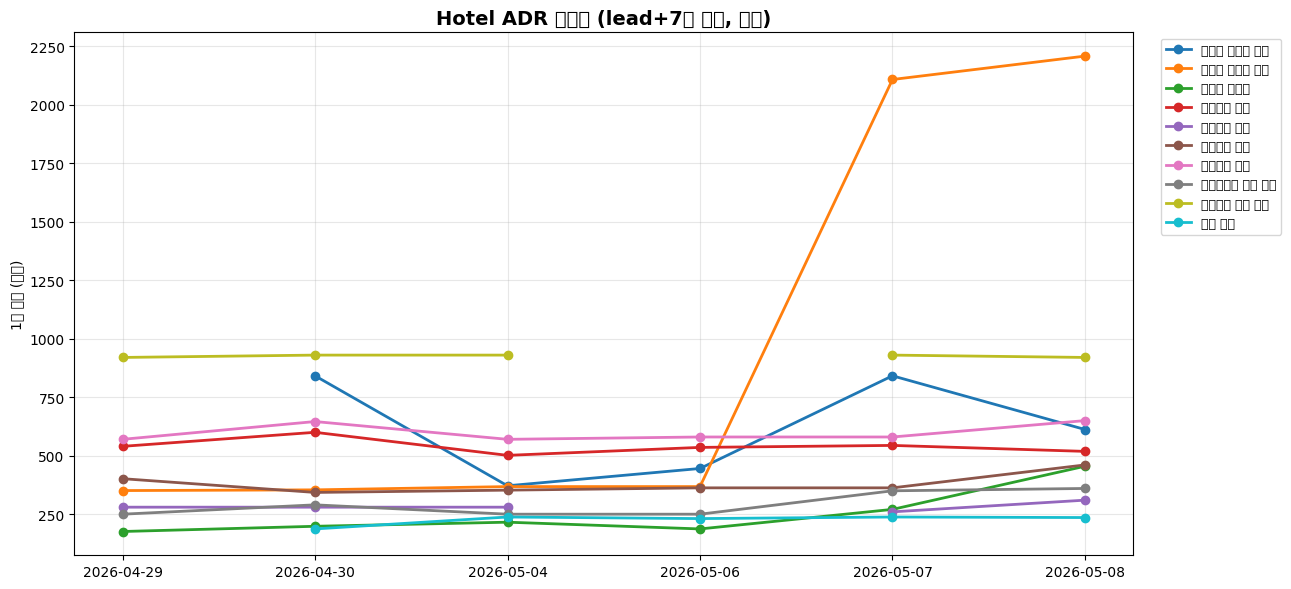
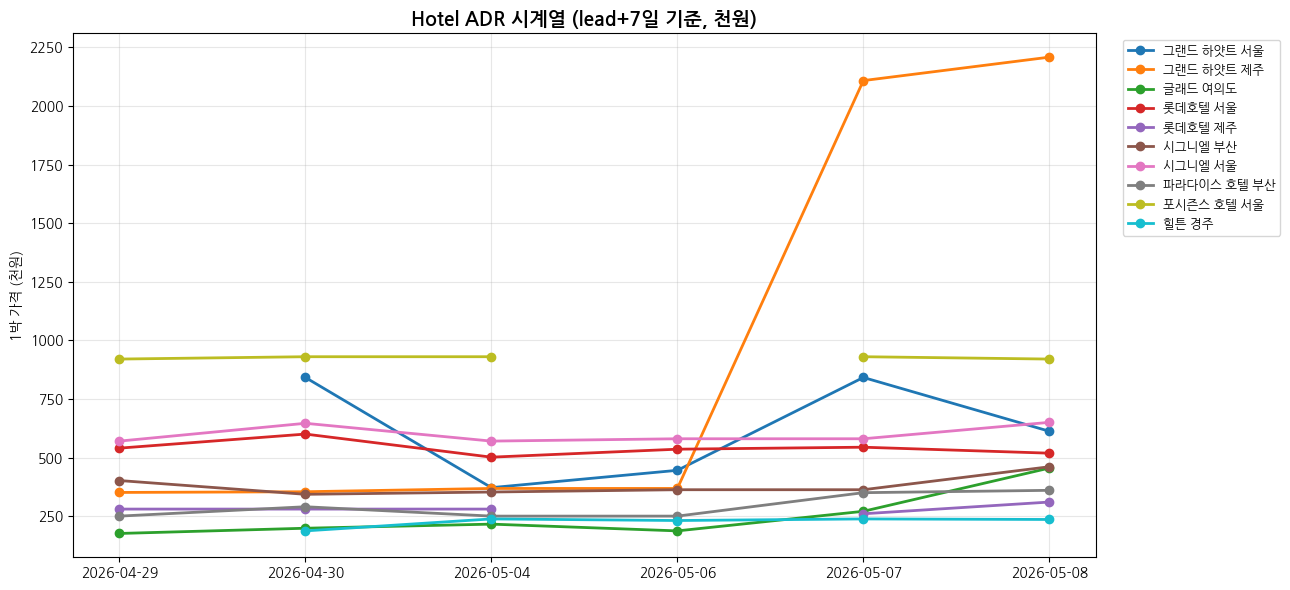
Auto-update: Market data and dashboard [skip ci]

diff --git a/market.html b/market.html
@@ -444,7 +444,7 @@
 <body>
     <header style="position:relative;">
         <h1>📊 Market Data Dashboard</h1>
-        <div class="last-updated">Updated: 2026-05-08 16:45:35 KST</div>
+        <div class="last-updated">Updated: 2026-05-08 16:52:04 KST</div>
         <a href="index.html" style="position:absolute;top:20px;right:24px;padding:6px 16px;background:#e0e0e0;color:#333;text-decoration:none;border-radius:8px;font-size:15px;font-weight:600;">Home</a>
     </header>
 
@@ -471,7 +471,7 @@
 <tr><td style="padding:6px 12px;text-align:center;font-variant-numeric:tabular-nums;border-right:1px solid #e5e7eb;border-bottom:1px solid #e5e7eb;">2026</td><td style="padding:6px 12px;text-align:center;font-variant-numeric:tabular-nums;border-right:1.5px solid #374151;border-bottom:1px solid #e5e7eb;">2월</td><td style="padding:6px 12px;text-align:center;background:#ff7a7a;color:#000;font-variant-numeric:tabular-nums;border-right:1px solid #e5e7eb;border-bottom:1px solid #e5e7eb;">+19.5%</td><td style="padding:6px 12px;text-align:center;background:#ffe8e8;color:#000;font-variant-numeric:tabular-nums;border-right:1px solid #e5e7eb;border-bottom:1px solid #e5e7eb;">+3.8%</td><td style="padding:6px 12px;text-align:center;background:#ff7a7a;color:#000;font-variant-numeric:tabular-nums;border-right:1px solid #e5e7eb;border-bottom:1px solid #e5e7eb;">+10.4%</td><td style="padding:6px 12px;text-align:center;background:#ff7a7a;color:#000;font-variant-numeric:tabular-nums;border-right:1px solid #e5e7eb;border-bottom:1px solid #e5e7eb;">+10.5%</td><td style="padding:6px 12px;text-align:center;background:#e8edff;color:#000;font-variant-numeric:tabular-nums;border-right:1px solid #e5e7eb;border-bottom:1px solid #e5e7eb;">-0.9%</td><td style="padding:6px 12px;text-align:center;background:#e8edff;color:#000;font-variant-numeric:tabular-nums;border-right:1px solid #e5e7eb;border-bottom:1px solid #e5e7eb;">-3.4%</td><td style="padding:6px 12px;text-align:center;background:#ffe8e8;color:#000;font-variant-numeric:tabular-nums;border-right:1.5px solid #374151;border-bottom:1px solid #e5e7eb;">+0.7%</td><td style="padding:6px 12px;text-align:center;background:#7a90ff;color:#000;font-variant-numeric:tabular-nums;border-right:1px solid #e5e7eb;border-bottom:1px solid #e5e7eb;">-14.8%</td><td style="padding:6px 12px;text-align:center;background:#7a90ff;color:#000;font-variant-numeric:tabular-nums;border-right:1.5px solid #374151;border-bottom:1px solid #e5e7eb;">-19.6%</td><td style="padding:6px 12px;text-align:center;background:#ff7a7a;color:#000;font-variant-numeric:tabular-nums;border-right:1px solid #e5e7eb;border-bottom:1px solid #e5e7eb;">+11.0%</td><td style="padding:6px 12px;text-align:center;background:#ff7a7a;color:#000;font-variant-numeric:tabular-nums;border-right:1px solid #e5e7eb;border-bottom:1px solid #e5e7eb;">+18.4%</td></tr>
 <tr><td style="padding:6px 12px;text-align:center;font-variant-numeric:tabular-nums;border-right:1px solid #e5e7eb;border-bottom:1px solid #e5e7eb;">2026</td><td style="padding:6px 12px;text-align:center;font-variant-numeric:tabular-nums;border-right:1.5px solid #374151;border-bottom:1px solid #e5e7eb;">3월</td><td style="padding:6px 12px;text-align:center;background:#7a90ff;color:#000;font-variant-numeric:tabular-nums;border-right:1px solid #e5e7eb;border-bottom:1px solid #e5e7eb;">-19.1%</td><td style="padding:6px 12px;text-align:center;background:#7a90ff;color:#000;font-variant-numeric:tabular-nums;border-right:1px solid #e5e7eb;border-bottom:1px solid #e5e7eb;">-11.8%</td><td style="padding:6px 12px;text-align:center;background:#7a90ff;color:#000;font-variant-numeric:tabular-nums;border-right:1px solid #e5e7eb;border-bottom:1px solid #e5e7eb;">-13.2%</td><td style="padding:6px 12px;text-align:center;background:#7a90ff;color:#000;font-variant-numeric:tabular-nums;border-right:1px solid #e5e7eb;border-bottom:1px solid #e5e7eb;">-10.4%</td><td style="padding:6px 12px;text-align:center;background:#b8c5ff;color:#000;font-variant-numeric:tabular-nums;border-right:1px solid #e5e7eb;border-bottom:1px solid #e5e7eb;">-5.1%</td><td style="padding:6px 12px;text-align:center;background:#e8edff;color:#000;font-variant-numeric:tabular-nums;border-right:1px solid #e5e7eb;border-bottom:1px solid #e5e7eb;">-4.8%</td><td style="padding:6px 12px;text-align:center;background:#b8c5ff;color:#000;font-variant-numeric:tabular-nums;border-right:1.5px solid #374151;border-bottom:1px solid #e5e7eb;">-5.2%</td><td style="padding:6px 12px;text-align:center;background:#ffe8e8;color:#000;font-variant-numeric:tabular-nums;border-right:1px solid #e5e7eb;border-bottom:1px solid #e5e7eb;">+1.8%</td><td style="padding:6px 12px;text-align:center;background:#ffb8b8;color:#000;font-variant-numeric:tabular-nums;border-right:1.5px solid #374151;border-bottom:1px solid #e5e7eb;">+7.1%</td><td style="padding:6px 12px;text-align:center;background:#7a90ff;color:#000;font-variant-numeric:tabular-nums;border-right:1px solid #e5e7eb;border-bottom:1px solid #e5e7eb;">-11.1%</td><td style="padding:6px 12px;text-align:center;background:#7a90ff;color:#000;font-variant-numeric:tabular-nums;border-right:1px solid #e5e7eb;border-bottom:1px solid #e5e7eb;">-19.4%</td></tr>
 <tr><td style="padding:6px 12px;text-align:center;font-variant-numeric:tabular-nums;border-right:1px solid #e5e7eb;border-bottom:1px solid #e5e7eb;">2026</td><td style="padding:6px 12px;text-align:center;font-variant-numeric:tabular-nums;border-right:1.5px solid #374151;border-bottom:1px solid #e5e7eb;">4월</td><td style="padding:6px 12px;text-align:center;background:#ff7a7a;color:#000;font-variant-numeric:tabular-nums;border-right:1px solid #e5e7eb;border-bottom:1px solid #e5e7eb;">+30.6%</td><td style="padding:6px 12px;text-align:center;background:#ff7a7a;color:#000;font-variant-numeric:tabular-nums;border-right:1px solid #e5e7eb;border-bottom:1px solid #e5e7eb;">+13.3%</td><td style="padding:6px 12px;text-align:center;background:#ff7a7a;color:#000;font-variant-numeric:tabular-nums;border-right:1px solid #e5e7eb;border-bottom:1px solid #e5e7eb;">+16.1%</td><td style="padding:6px 12px;text-align:center;background:#ff7a7a;color:#000;font-variant-numeric:tabular-nums;border-right:1px solid #e5e7eb;border-bottom:1px solid #e5e7eb;">+22.7%</td><td style="padding:6px 12px;text-align:center;background:#ff7a7a;color:#000;font-variant-numeric:tabular-nums;border-right:1px solid #e5e7eb;border-bottom:1px solid #e5e7eb;">+10.4%</td><td style="padding:6px 12px;text-align:center;background:#ff7a7a;color:#000;font-variant-numeric:tabular-nums;border-right:1px solid #e5e7eb;border-bottom:1px solid #e5e7eb;">+15.3%</td><td style="padding:6px 12px;text-align:center;background:#ff7a7a;color:#000;font-variant-numeric:tabular-nums;border-right:1.5px solid #374151;border-bottom:1px solid #e5e7eb;">+12.2%</td><td style="padding:6px 12px;text-align:center;background:#ff7a7a;color:#000;font-variant-numeric:tabular-nums;border-right:1px solid #e5e7eb;border-bottom:1px solid #e5e7eb;">+11.8%</td><td style="padding:6px 12px;text-align:center;background:#ffb8b8;color:#000;font-variant-numeric:tabular-nums;border-right:1.5px solid #374151;border-bottom:1px solid #e5e7eb;">+7.2%</td><td style="padding:6px 12px;text-align:center;background:#e8edff;color:#000;font-variant-numeric:tabular-nums;border-right:1px solid #e5e7eb;border-bottom:1px solid #e5e7eb;">-0.7%</td><td style="padding:6px 12px;text-align:center;background:#e8edff;color:#000;font-variant-numeric:tabular-nums;border-right:1px solid #e5e7eb;border-bottom:1px solid #e5e7eb;">-1.5%</td></tr>
-<tr><td style="padding:6px 12px;text-align:center;font-variant-numeric:tabular-nums;border-right:1px solid #e5e7eb;border-bottom:1px solid #e5e7eb;">2026</td><td style="padding:6px 12px;text-align:center;font-variant-numeric:tabular-nums;border-right:1.5px solid #374151;border-bottom:1px solid #e5e7eb;">5월</td><td style="padding:6px 12px;text-align:center;background:#ff7a7a;color:#000;font-variant-numeric:tabular-nums;border-right:1px solid #e5e7eb;border-bottom:1px solid #e5e7eb;">+13.6%</td><td style="padding:6px 12px;text-align:center;background:#ffe8e8;color:#000;font-variant-numeric:tabular-nums;border-right:1px solid #e5e7eb;border-bottom:1px solid #e5e7eb;">+1.3%</td><td style="padding:6px 12px;text-align:center;background:#ffb8b8;color:#000;font-variant-numeric:tabular-nums;border-right:1px solid #e5e7eb;border-bottom:1px solid #e5e7eb;">+5.8%</td><td style="padding:6px 12px;text-align:center;background:#ffb8b8;color:#000;font-variant-numeric:tabular-nums;border-right:1px solid #e5e7eb;border-bottom:1px solid #e5e7eb;">+6.9%</td><td style="padding:6px 12px;text-align:center;background:#ffe8e8;color:#000;font-variant-numeric:tabular-nums;border-right:1px solid #e5e7eb;border-bottom:1px solid #e5e7eb;">+1.8%</td><td style="padding:6px 12px;text-align:center;background:#ffe8e8;color:#000;font-variant-numeric:tabular-nums;border-right:1px solid #e5e7eb;border-bottom:1px solid #e5e7eb;">+3.7%</td><td style="padding:6px 12px;text-align:center;background:#ffe8e8;color:#000;font-variant-numeric:tabular-nums;border-right:1.5px solid #374151;border-bottom:1px solid #e5e7eb;">+1.4%</td><td style="padding:6px 12px;text-align:center;background:#ffe8e8;color:#000;font-variant-numeric:tabular-nums;border-right:1px solid #e5e7eb;border-bottom:1px solid #e5e7eb;">+4.2%</td><td style="padding:6px 12px;text-align:center;background:#ffe8e8;color:#000;font-variant-numeric:tabular-nums;border-right:1.5px solid #374151;border-bottom:1px solid #e5e7eb;">+0.9%</td><td style="padding:6px 12px;text-align:center;background:#ffe8e8;color:#000;font-variant-numeric:tabular-nums;border-right:1px solid #e5e7eb;border-bottom:1px solid #e5e7eb;">+2.2%</td><td style="padding:6px 12px;text-align:center;background:#ffb8b8;color:#000;font-variant-numeric:tabular-nums;border-right:1px solid #e5e7eb;border-bottom:1px solid #e5e7eb;">+9.0%</td></tr>
+<tr><td style="padding:6px 12px;text-align:center;font-variant-numeric:tabular-nums;border-right:1px solid #e5e7eb;border-bottom:1px solid #e5e7eb;">2026</td><td style="padding:6px 12px;text-align:center;font-variant-numeric:tabular-nums;border-right:1.5px solid #374151;border-bottom:1px solid #e5e7eb;">5월</td><td style="padding:6px 12px;text-align:center;background:#ff7a7a;color:#000;font-variant-numeric:tabular-nums;border-right:1px solid #e5e7eb;border-bottom:1px solid #e5e7eb;">+13.6%</td><td style="padding:6px 12px;text-align:center;background:#ffe8e8;color:#000;font-variant-numeric:tabular-nums;border-right:1px solid #e5e7eb;border-bottom:1px solid #e5e7eb;">+1.3%</td><td style="padding:6px 12px;text-align:center;background:#ffb8b8;color:#000;font-variant-numeric:tabular-nums;border-right:1px solid #e5e7eb;border-bottom:1px solid #e5e7eb;">+5.8%</td><td style="padding:6px 12px;text-align:center;background:#ffb8b8;color:#000;font-variant-numeric:tabular-nums;border-right:1px solid #e5e7eb;border-bottom:1px solid #e5e7eb;">+6.9%</td><td style="padding:6px 12px;text-align:center;background:#ffe8e8;color:#000;font-variant-numeric:tabular-nums;border-right:1px solid #e5e7eb;border-bottom:1px solid #e5e7eb;">+1.8%</td><td style="padding:6px 12px;text-align:center;background:#ffe8e8;color:#000;font-variant-numeric:tabular-nums;border-right:1px solid #e5e7eb;border-bottom:1px solid #e5e7eb;">+3.7%</td><td style="padding:6px 12px;text-align:center;background:#ffe8e8;color:#000;font-variant-numeric:tabular-nums;border-right:1.5px solid #374151;border-bottom:1px solid #e5e7eb;">+1.4%</td><td style="padding:6px 12px;text-align:center;background:#ffe8e8;color:#000;font-variant-numeric:tabular-nums;border-right:1px solid #e5e7eb;border-bottom:1px solid #e5e7eb;">+4.3%</td><td style="padding:6px 12px;text-align:center;background:#ffe8e8;color:#000;font-variant-numeric:tabular-nums;border-right:1.5px solid #374151;border-bottom:1px solid #e5e7eb;">+1.0%</td><td style="padding:6px 12px;text-align:center;background:#ffe8e8;color:#000;font-variant-numeric:tabular-nums;border-right:1px solid #e5e7eb;border-bottom:1px solid #e5e7eb;">+2.2%</td><td style="padding:6px 12px;text-align:center;background:#ffb8b8;color:#000;font-variant-numeric:tabular-nums;border-right:1px solid #e5e7eb;border-bottom:1px solid #e5e7eb;">+9.2%</td></tr>
                     </tbody>
                 </table>
             </div>

diff --git a/universe.html b/universe.html
@@ -54,7 +54,7 @@
 <header>
     <div style="max-width:1800px;margin:0 auto;padding:0 24px;position:relative;">
         <h1>Universe</h1>
-        <div style="margin-top:10px;color:#6c757d;font-style:italic;font-size:15px;">Updated: 2026-05-08 16:45:35 KST</div>
+        <div style="margin-top:10px;color:#6c757d;font-style:italic;font-size:15px;">Updated: 2026-05-08 16:52:04 KST</div>
         <div style="position:absolute;top:20px;right:24px;display:flex;gap:8px;">
             <a href="https://docs.google.com/spreadsheets/d/1KR9RJN53G-yJtnowQbg5bcAiIBfrkIeNqN_PO2UOCTM/edit" target="_blank" style="background:#6B21A8;color:#fff;font-size:15px;font-weight:600;text-decoration:none;padding:6px 16px;border-radius:8px;">Sheet</a>
             <a href="index.html" style="padding:6px 16px;background:#e0e0e0;color:#333;text-decoration:none;border-radius:8px;font-size:15px;font-weight:600;">Home</a>

diff --git a/wrap.html b/wrap.html
@@ -137,7 +137,7 @@
     <div id="mainContent" class="pw-hidden">
     <header style="position:relative;">
         <h1>📈 WRAP</h1>
-        <div class="last-updated">Updated: 2026-05-08 16:45:35 KST</div>
+        <div class="last-updated">Updated: 2026-05-08 16:52:04 KST</div>
         <a href="index.html" style="position:absolute;top:20px;right:24px;padding:6px 16px;background:#e0e0e0;color:#333;text-decoration:none;border-radius:8px;font-size:15px;font-weight:600;">Home</a>
     </header>
 